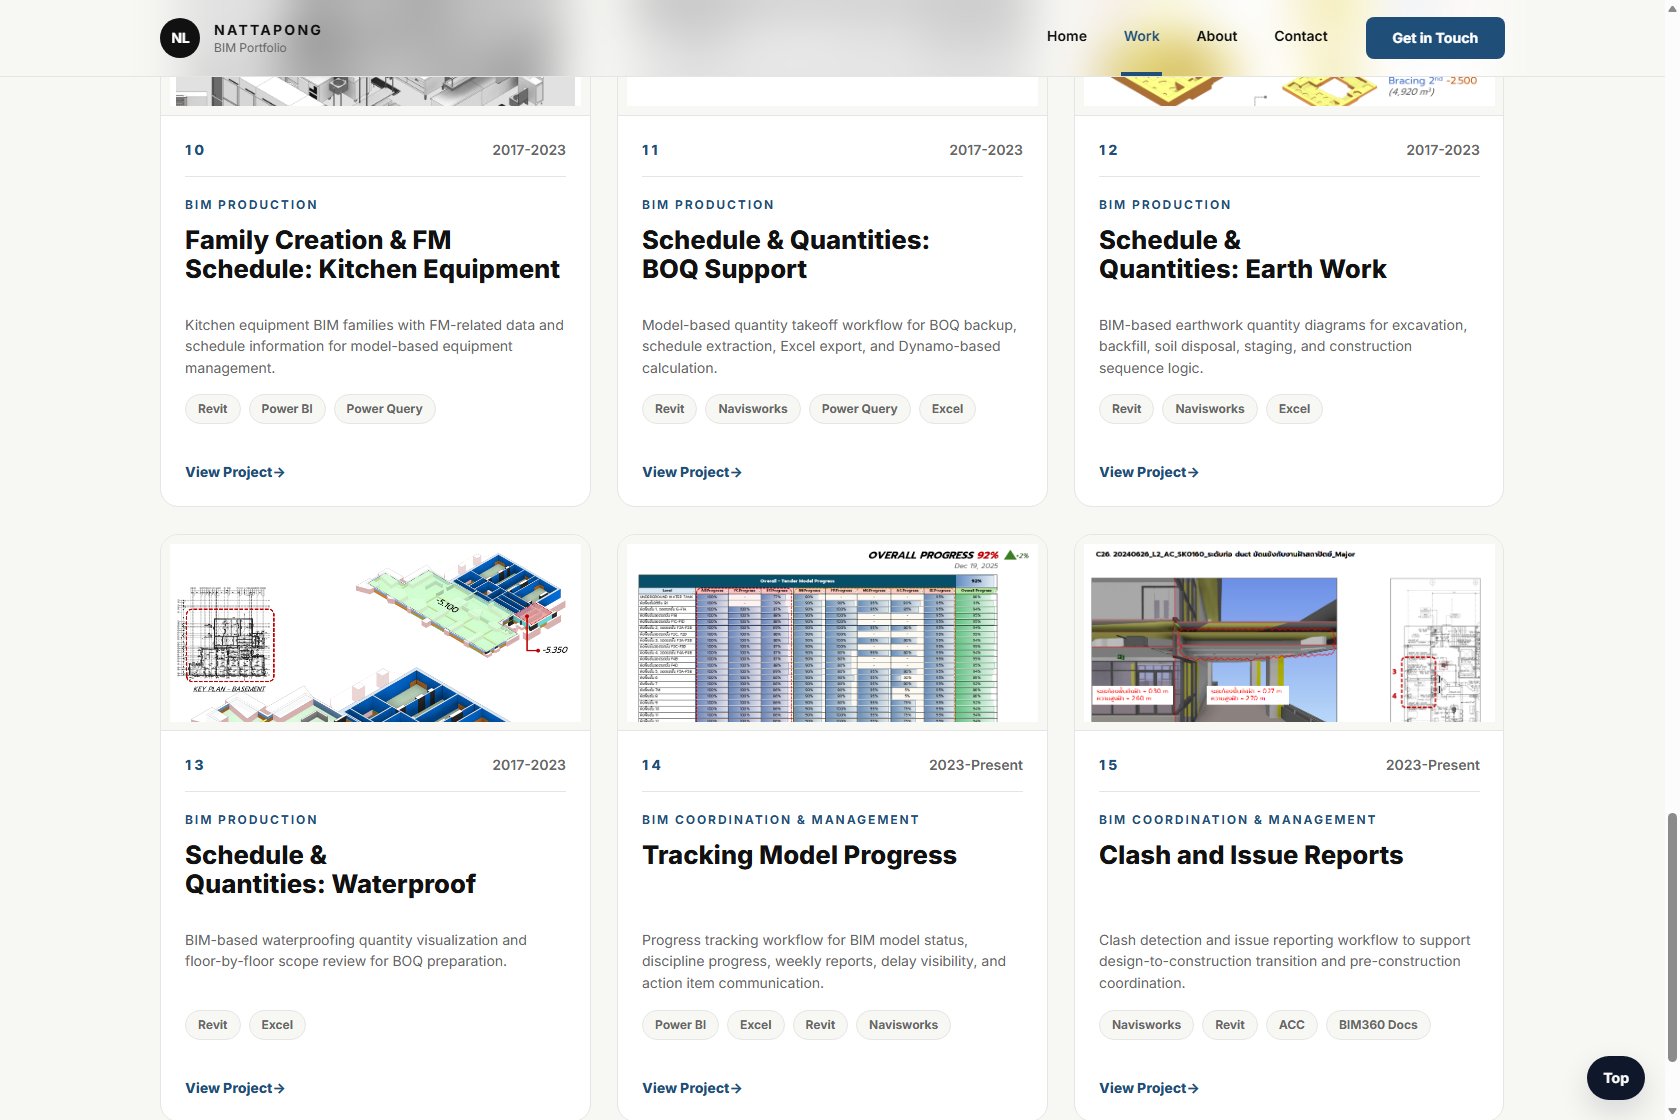
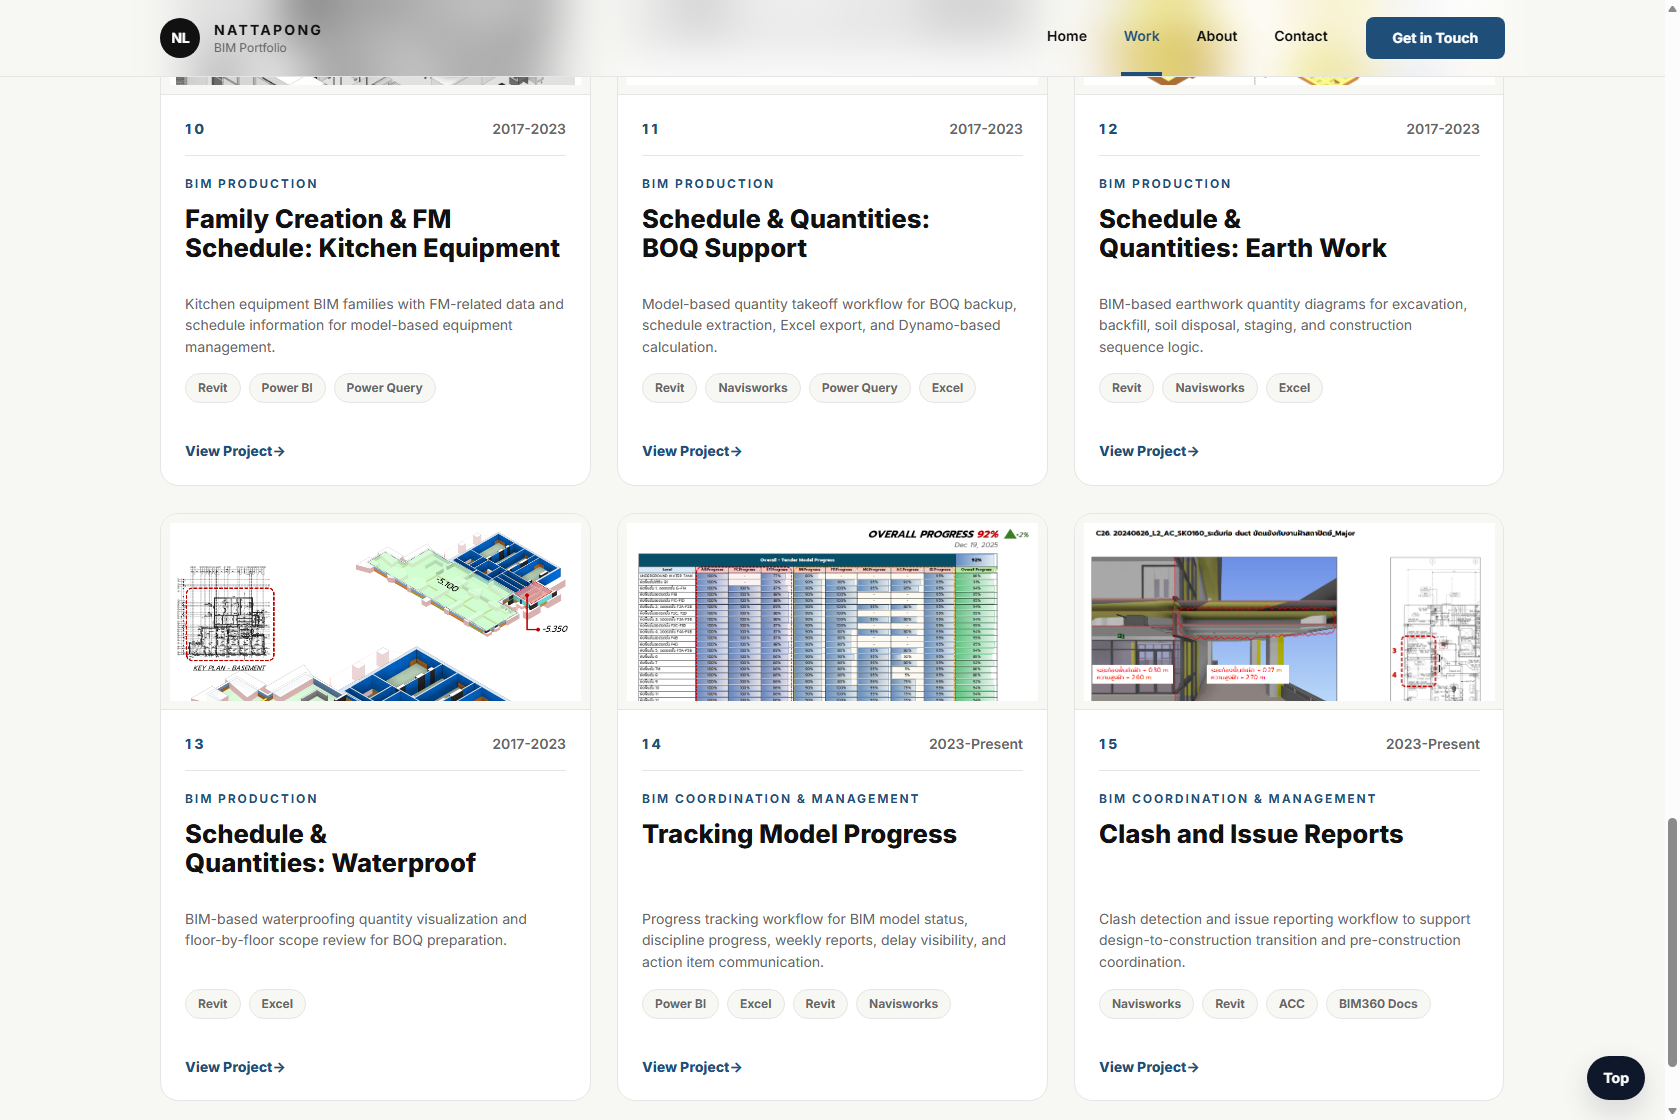
Fix mobile layout cascade

diff --git a/src/styles.css b/src/styles.css
@@ -1262,3 +1262,142 @@ header nav {
     grid-template-columns: 1fr;
   }
 }
+
+/* Mobile layout lockdown: keep late desktop refinements from re-applying on narrow screens. */
+@media (max-width: 980px) {
+  .hero-inner {
+    display: grid;
+    grid-template-columns: 1fr !important;
+    align-content: start;
+    min-height: auto;
+    padding: 2rem var(--layout-pad) 0;
+  }
+
+  .hero-copy,
+  .hero-evidence {
+    grid-column: 1 / -1 !important;
+    width: 100%;
+    max-width: 100%;
+  }
+
+  .hero-copy {
+    min-width: 0;
+  }
+
+  .hero-title,
+  .hero-role,
+  .hero-tagline,
+  .hero-copy > p.mt-6,
+  .hero-proof-strip {
+    max-width: 100%;
+  }
+
+  .hero-role {
+    width: auto;
+    white-space: normal;
+  }
+
+  .hero-evidence {
+    position: relative;
+    grid-template-columns: minmax(0, 1.05fr) minmax(0, 0.95fr);
+    align-self: auto;
+    align-items: end;
+    min-height: clamp(17rem, 61vw, 27rem);
+    margin: 1.75rem 0 0;
+    padding: 1.25rem 0 1.15rem;
+  }
+
+  .hero-model {
+    min-width: 0;
+    height: 100%;
+    max-width: 100%;
+  }
+
+  .hero-model img {
+    width: 100%;
+    height: 100%;
+    object-fit: contain;
+    object-position: center bottom;
+  }
+
+  .cv-page {
+    display: grid;
+    grid-template-columns: 1fr !important;
+    gap: 2rem;
+    width: 100%;
+    max-width: 100%;
+    margin: 0;
+    padding: 2.75rem var(--layout-pad) 3.5rem;
+  }
+
+  .cv-main,
+  .cv-sidebar,
+  .cv-hero,
+  .cv-columns {
+    grid-column: 1 / -1 !important;
+    width: 100%;
+    min-width: 0;
+    max-width: 100%;
+  }
+
+  .cv-sidebar {
+    position: static;
+    left: auto;
+    right: auto;
+    margin: 0;
+  }
+
+  .cv-hero {
+    display: grid;
+    grid-template-columns: 1fr;
+    gap: 1.6rem;
+  }
+
+  .cv-portrait {
+    justify-self: center;
+  }
+
+  .cv-columns {
+    display: grid;
+    grid-template-columns: 1fr !important;
+  }
+
+  .cv-col {
+    min-width: 0;
+  }
+
+  .proficiency-panel {
+    grid-column: 1 / -1;
+  }
+}
+
+@media (max-width: 640px) {
+  .hero-title {
+    font-size: clamp(3.15rem, 13.2vw, 4.15rem);
+  }
+
+  .hero-title span {
+    white-space: nowrap;
+  }
+
+  .hero-tagline {
+    gap-inline: 0.7rem;
+  }
+
+  .hero-tagline span:not(:last-child)::after {
+    margin-left: 0.7rem;
+  }
+
+  .hero-evidence {
+    min-height: clamp(16rem, 66vw, 22rem);
+    gap: 0.7rem;
+  }
+
+  .cv-page {
+    padding-top: 2.4rem;
+  }
+
+  .cv-sidebar {
+    gap: 0.85rem;
+  }
+}
